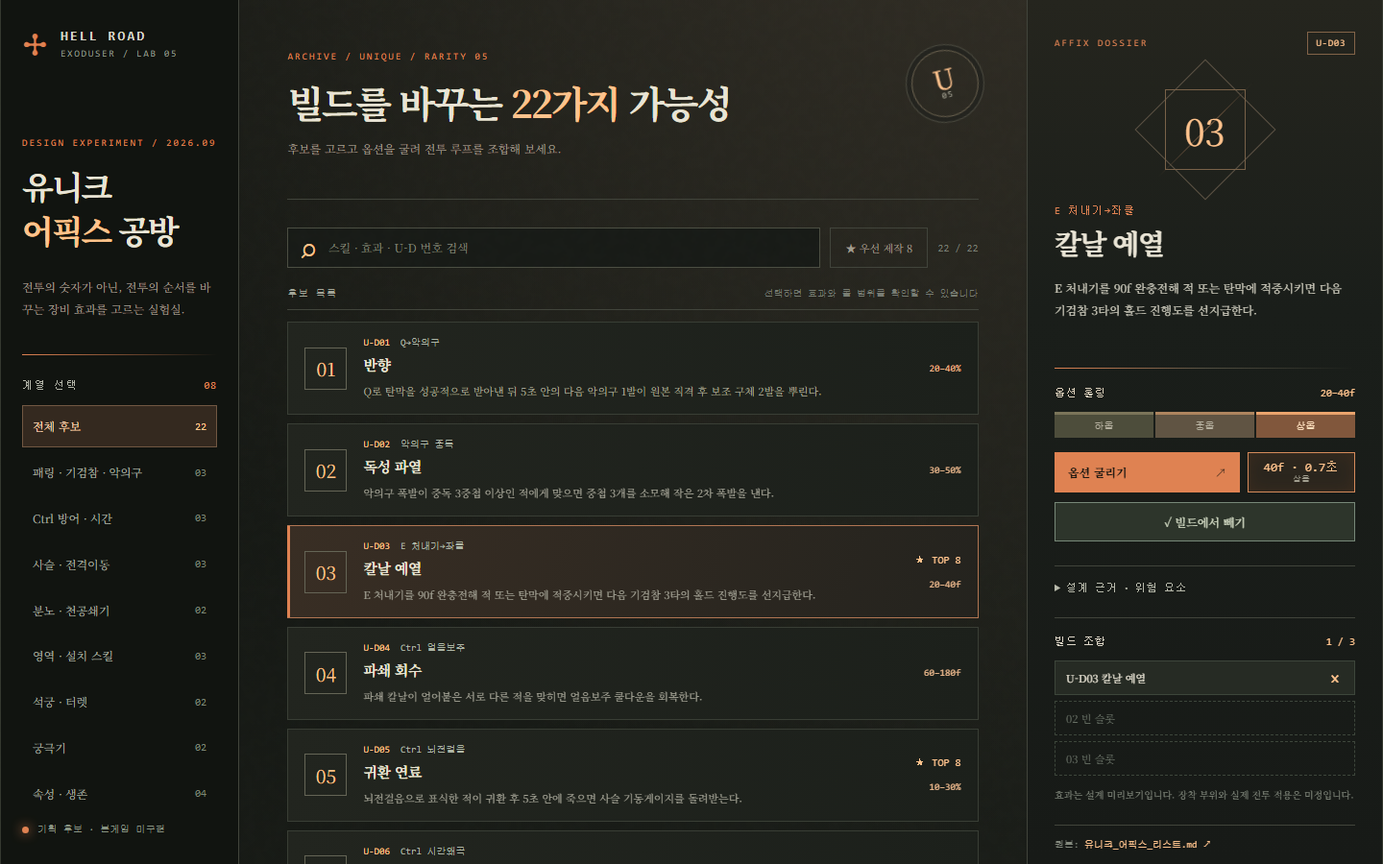
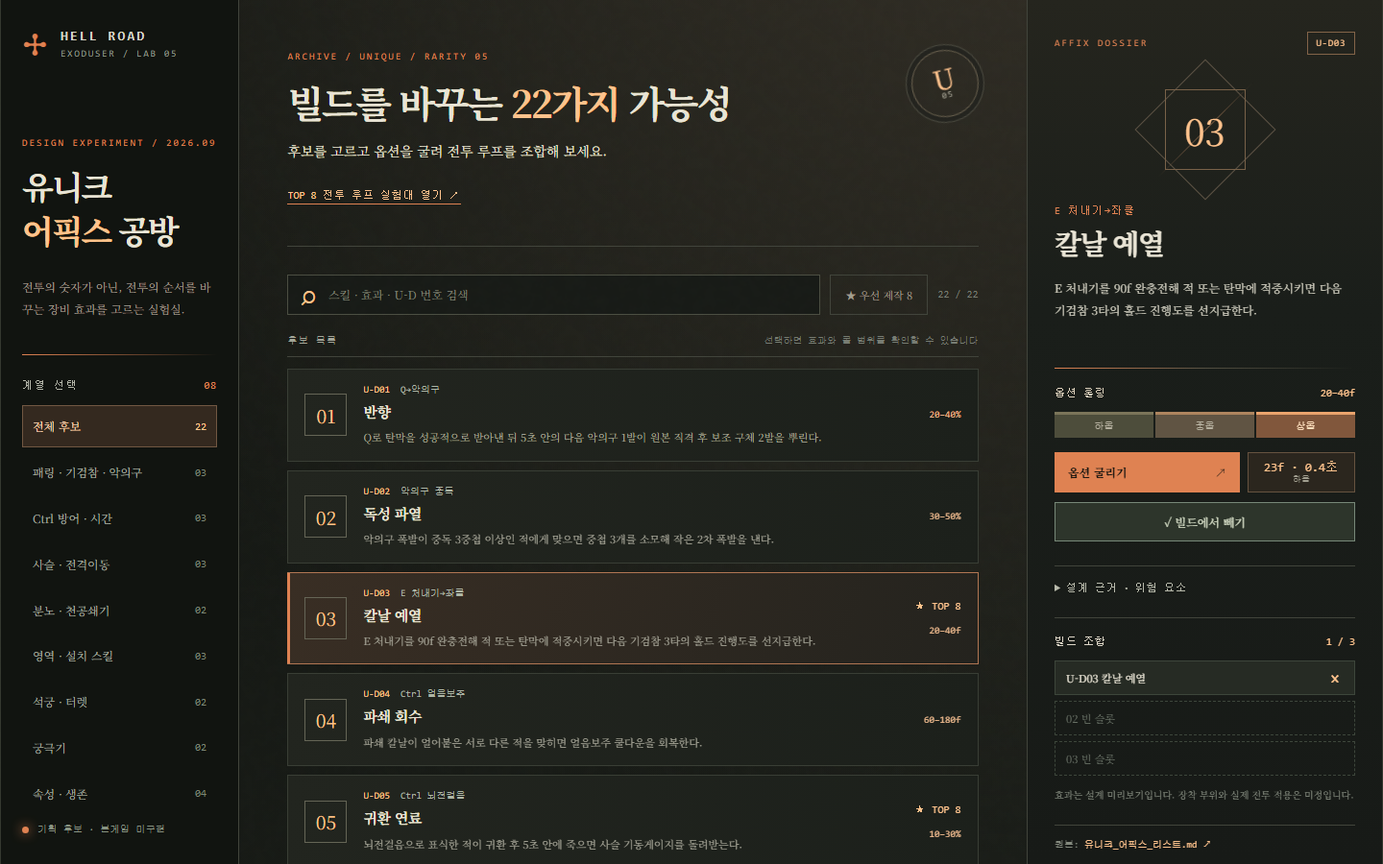
feat:affix-loop-sandbox

diff --git a/affix-mini-project/sandbox.css b/affix-mini-project/sandbox.css
@@ -1,0 +1,11 @@
+.sim-shell{display:grid;grid-template-columns:270px minmax(0,1fr);max-width:1700px;min-height:100vh;margin:auto;border-inline:1px solid #34382f}
+.sim-rail{padding:31px 22px;min-width:0;background:#111410;border-right:1px solid var(--line);position:sticky;top:0;height:100vh;display:flex;flex-direction:column;overflow:auto}
+.sim-back{display:inline-block;color:var(--ember2);text-decoration:none;font:11px var(--mono);padding-bottom:27px;border-bottom:1px solid var(--line)}.sim-back:hover{text-decoration:underline}.sim-rail>.eyebrow{margin-top:40px}.sim-rail h1{font-size:35px;line-height:1.4;letter-spacing:-.06em;margin:0 0 14px}.sim-rail h1 em{font-style:normal;color:var(--ember2)}.sim-intro{color:var(--muted);font-size:12px;line-height:1.9;margin:0 0 34px}.sim-nav-title{display:flex;justify-content:space-between;padding:13px 0;border-top:1px solid var(--line);font:11px var(--mono);color:#b6b8a9}.sim-nav-title span:last-child{color:var(--ember2)}.scenario-list{display:grid;gap:7px}.scenario-button{width:100%;display:grid;grid-template-columns:35px 1fr;align-items:center;gap:9px;text-align:left;background:#1c211b;border:1px solid #343d32;color:var(--text);padding:9px;min-height:57px}.scenario-button:hover{border-color:#9c7656}.scenario-button[aria-current="true"]{border-color:var(--ember);background:#3a2c22}.scenario-number{font:15px var(--font);color:var(--ember2);border-right:1px solid #786353}.scenario-copy{font-size:11px;line-height:1.35}.scenario-copy small{display:block;font:9px var(--mono);color:#9ea594;margin-top:3px}.sim-rail-note{margin-top:auto;padding-top:20px;color:#788273;font:10px var(--mono)}
+.sim-main{padding:42px clamp(24px,4vw,64px) 70px;min-width:0}.sim-head{display:flex;justify-content:space-between;align-items:flex-start;gap:22px;border-bottom:1px solid var(--line);padding-bottom:28px}.sim-head h2{font-size:clamp(29px,3vw,43px);line-height:1.25;letter-spacing:-.06em;margin:0 0 10px}.sim-head p:last-child{color:var(--muted);font-size:12px;margin:0}.sim-id{flex:none;border:1px solid #9a6f51;color:var(--ember2);padding:9px 13px;font:12px var(--mono)}.sim-disclaimer{display:flex;align-items:center;gap:10px;color:#a6a898;font-size:11px;background:#282a22;border-left:2px solid var(--ember);padding:10px 13px;margin:21px 0 25px}.sim-disclaimer .status-dot{flex:none}
+.sim-layout{display:grid;grid-template-columns:minmax(360px,1fr) 345px;gap:18px}.sim-arena{min-width:0;border:1px solid #535345;background:radial-gradient(circle at 50% 31%,#453528 0,#292a22 32%,#1b201a 67%);padding:24px 28px 26px;position:relative;overflow:hidden}.sim-arena:before{content:"";pointer-events:none;position:absolute;inset:0;background:linear-gradient(90deg,transparent 49.9%,#71604926 50%,transparent 50.1%),linear-gradient(0deg,transparent 49.9%,#71604926 50%,transparent 50.1%);background-size:52px 52px;opacity:.28}.arena-top{position:relative;z-index:1;display:flex;justify-content:space-between;color:#a8ad9e;font:11px var(--mono);letter-spacing:.12em}.arena-top strong{font-weight:400;color:var(--ember2)}.arena-top span:last-child{color:var(--ember2)}.arena-sigil{height:260px;position:relative;display:grid;place-items:center}.sigil-ring{position:absolute;border:1px solid #957051;border-radius:50%;box-shadow:0 0 34px #df825222,inset 0 0 30px #df825211}.sigil-ring.outer{width:200px;height:200px;border-style:dashed;animation:turn 34s linear infinite}.sigil-ring.inner{width:155px;height:155px;border-color:#9c694b;animation:turn 20s linear infinite reverse}.arena-sigil span{position:relative;z-index:1;color:#ffcfaa;font:64px var(--font);text-shadow:0 0 24px #df825255}.arena-sigil i{position:absolute;width:232px;height:1px;background:linear-gradient(90deg,transparent,#d08350,transparent);transform:rotate(-40deg)}@keyframes turn{to{transform:rotate(360deg)}}.arena-caption{text-align:center;color:#a3a596;font-size:11px;margin:0 0 22px;position:relative}.step-list{counter-reset:step;display:grid;gap:9px;list-style:none;padding:0;margin:0;position:relative}.step-list li{display:flex;align-items:center;gap:12px;border:1px solid #4c5145;background:#1a1e19eb;min-height:50px;padding:9px 11px;color:#aab0a3;font-size:12px}.step-list li:before{counter-increment:step;content:counter(step,decimal-leading-zero);font:11px var(--mono);color:#828b79}.step-list li.done{border-color:#9c724e;color:#e8d7c4;background:#382c22}.step-list li.done:before{color:var(--ember2)}.step-list li.next{border-color:#d8915d;color:#ffdfbd;box-shadow:0 0 0 1px #6f4b31}
+.sim-control{min-width:0;border:1px solid var(--line);background:#1d211c;padding:26px}.sim-control .eyebrow{margin-bottom:5px}.sim-control h3{font-size:27px;letter-spacing:-.055em;margin:0 0 12px}.sim-effect{color:#c8cabc;font-size:12px;line-height:1.85;min-height:76px;margin:0}.sim-rule{height:1px;background:linear-gradient(90deg,var(--ember),transparent);margin:22px 0}.roll-card{display:grid;grid-template-columns:1fr auto;gap:3px 12px;border:1px solid #655446;background:#2d2922;padding:13px}.roll-card>span{font:10px var(--mono);color:#c3bba8}.roll-card strong{grid-row:span 2;align-self:center;color:var(--ember2);font:20px var(--mono)}.roll-card button{justify-self:start;border:0;background:transparent;padding:0;color:#e5ae84;font:11px var(--mono)}.roll-card button:hover{text-decoration:underline}.action-heading{display:flex;justify-content:space-between;margin:27px 0 10px;color:#c1c5b4;font:11px var(--mono)}.action-heading span:last-child{color:var(--ember2)}.advance-button{width:100%;display:flex;justify-content:space-between;align-items:center;padding:14px 16px;background:var(--ember);border:0;color:#1b1a15;font-size:12px;font-weight:700;text-align:left}.advance-button:hover{background:#ffb181}.advance-button:disabled{background:#554839;color:#aaa99a;cursor:default}.reset-button{width:100%;margin-top:8px;background:transparent;color:#aeb7a7;border:1px solid #5c6456;padding:10px;font-size:11px}.reset-button:hover{color:#fff;border-color:#a3b2a1}.result-card{border-top:1px solid var(--line);margin-top:24px;padding-top:17px}.result-card>span{font:10px var(--mono);color:var(--ember2);letter-spacing:.12em}.result-card p{font-size:12px;color:#d2d4c5;line-height:1.8;margin:8px 0 0;min-height:60px}.sim-source{margin-top:20px;font:10px var(--mono)}.sim-source a{text-decoration:none}.sim-source a:hover{text-decoration:underline}
+.metric-section,.log-section{margin-top:32px}.section-head{display:flex;justify-content:space-between;gap:12px;padding-bottom:11px;border-bottom:1px solid var(--line);font:11px var(--mono);color:#e4ddce}.section-head span:last-child{color:#858d7e}.metric-list{display:grid;grid-template-columns:repeat(3,minmax(0,1fr));gap:10px;margin-top:13px}.metric-card{border:1px solid #444b3f;background:#20251f;padding:15px 17px;min-height:95px}.metric-card span{display:block;color:#a7b09f;font:11px var(--mono);margin-bottom:9px}.metric-card strong{color:#f3c59e;font:27px var(--font)}.metric-card small{font:10px var(--mono);color:#9c9e90;margin-left:5px}.event-log{padding:0;margin:13px 0 0;list-style:none;display:grid;gap:7px}.event-log li{display:grid;grid-template-columns:105px 1fr;gap:14px;background:#1e231d;border-left:2px solid var(--ember);padding:10px 13px;font-size:11px;color:#c3c8b7}.event-log li strong{color:var(--ember2);font:10px var(--mono)}.event-log li.empty{border-left-color:#5b6154;color:#838a7c}
+@media(max-width:1100px){.sim-shell{grid-template-columns:220px minmax(0,1fr)}.sim-layout{grid-template-columns:1fr}.sim-rail{padding-inline:16px}.sim-main{padding-inline:25px}.sim-effect{min-height:0}}
+@media(max-width:750px){.sim-shell{display:block}.sim-rail{position:static;height:auto;overflow:visible;padding:19px 22px}.sim-back{padding-bottom:12px}.sim-rail>.eyebrow{margin-top:16px}.sim-rail h1{font-size:27px;margin-bottom:5px}.sim-rail h1 br{display:none}.sim-intro,.sim-rail-note{display:none}.sim-nav-title{margin-top:14px}.scenario-list{display:flex;overflow:auto;padding-bottom:4px}.scenario-button{flex:none;width:155px}.sim-main{padding:25px 20px 50px}.sim-head h2{font-size:28px}.sim-head p:last-child{line-height:1.6}.sim-disclaimer{align-items:flex-start}.sim-layout{grid-template-columns:minmax(0,1fr)}.sim-arena{padding:18px}.arena-sigil{height:205px}.sigil-ring.outer{width:158px;height:158px}.sigil-ring.inner{width:120px;height:120px}.arena-sigil span{font-size:49px}.metric-list{grid-template-columns:repeat(3,minmax(0,1fr))}.metric-card{padding:10px}.metric-card span{font-size:9px}.metric-card strong{font-size:20px}.event-log li{grid-template-columns:1fr;gap:4px}}
+@media(max-width:430px){.sim-id{padding:5px 7px;font-size:10px}.sim-head h2{font-size:24px}.metric-list{gap:5px}.metric-card strong{font-size:17px}.metric-card small{font-size:8px}.sim-control{padding:20px}}
+@media(prefers-reduced-motion:reduce){.sigil-ring.outer,.sigil-ring.inner{animation:none}}

diff --git a/affix-mini-project/styles.css b/affix-mini-project/styles.css
@@ -16,7 +16,7 @@ button,input{font:inherit}button{cursor:pointer}button:focus-visible,input:focus
 .column-head{display:flex;justify-content:space-between;gap:12px;font:10px var(--mono);letter-spacing:.13em;text-transform:uppercase;color:#a4a699;padding-bottom:10px;border-bottom:1px solid var(--line)}.column-head span:last-child{letter-spacing:0;text-transform:none;color:#777c72}.candidate-list{display:grid;gap:9px;padding-top:12px}.candidate-card{position:relative;display:grid;grid-template-columns:48px 1fr auto;gap:13px;align-items:center;width:100%;border:1px solid #393e35;background:linear-gradient(100deg,#22251f,#1c201b);color:var(--text);text-align:left;padding:15px 17px;min-height:94px;transition:transform .18s,border-color .18s,background .18s}.candidate-card:before{content:"";position:absolute;left:-1px;top:0;bottom:0;width:3px;background:transparent}.candidate-card:hover{transform:translateX(4px);border-color:#8e7057}.candidate-card[aria-current="true"]{background:linear-gradient(110deg,#392e24,#24231e);border-color:#b17653}.candidate-card[aria-current="true"]:before{background:var(--ember)}.card-index{width:44px;height:44px;border:1px solid #656556;display:grid;place-items:center;color:var(--ember2);font:19px var(--font)}.card-copy{min-width:0}.card-meta{display:flex;gap:11px;align-items:center;margin-bottom:5px;color:#aeb6a6;font:10px var(--mono)}.card-meta strong{color:var(--ember2);font-weight:400}.card-title{font-weight:700;font-size:15px;letter-spacing:-.03em}.card-summary{margin-top:5px;color:#aaa99b;font-size:11px;line-height:1.65;display:-webkit-box;-webkit-line-clamp:2;-webkit-box-orient:vertical;overflow:hidden}.card-end{display:flex;flex-direction:column;align-items:end;gap:13px;color:#8f9687;font:10px var(--mono);white-space:nowrap}.card-end b{font-weight:400;color:#edb98d}.priority{font-size:11px;color:var(--ember2)}.empty-state{border:1px dashed var(--line);padding:36px;color:var(--muted);text-align:center;font-size:12px}
 .inspector{position:sticky;top:0;height:100vh;overflow:auto;border-left:1px solid var(--line);background:linear-gradient(180deg,#25251e,#1a1e1a 36%,#171a17);padding:33px 28px 34px;scrollbar-color:#5b5f52 transparent}.inspector-top{display:flex;justify-content:space-between;align-items:center}.inspector-top .eyebrow{margin:0}.id-stamp{border:1px solid #836449;padding:5px 9px;color:var(--ember2);font:10px var(--mono);letter-spacing:.06em}.emblem{height:156px;display:grid;place-items:center;position:relative}.emblem:before,.emblem:after{content:"";position:absolute;border:1px solid #5d5345;width:102px;height:102px;transform:rotate(45deg)}.emblem:after{transform:rotate(0deg);width:82px;height:82px;border-color:#796249}.emblem span{font:38px var(--font);color:var(--ember2);z-index:1}.emblem i{position:absolute;width:140px;height:1px;background:linear-gradient(90deg,transparent,#7e6046,transparent);transform:rotate(-45deg)}.detail-family{color:var(--ember);font:11px var(--mono);letter-spacing:.07em;margin:0 0 3px}.detail-name{margin:0 0 12px;font-size:29px;letter-spacing:-.055em}.detail-effect{color:#d3d1c2;font-size:12px;line-height:1.9;min-height:70px;margin:0}.detail-rule{height:1px;background:linear-gradient(90deg,var(--ember),#555143,transparent);margin:24px 0 19px}.roll-head{display:flex;justify-content:space-between;gap:8px;font:11px var(--mono);color:#e0d4bf}.roll-head span:last-child{color:var(--ember2)}.roll-track{display:grid;grid-template-columns:repeat(3,1fr);gap:2px;margin:13px 0 15px}.roll-track span{text-align:center;background:#4d4d3b;border-top:3px solid #7b755a;color:#b7b2a1;padding:6px 0;font:10px var(--mono)}.roll-track span:nth-child(2){background:#605443;border-color:#ae855f}.roll-track span:nth-child(3){background:#81573c;border-color:#eaa46d;color:#ffe1bf}.roll-actions{display:flex;gap:8px}.primary-button{background:var(--ember);color:#171510;border:0;padding:11px 14px;font-size:12px;font-weight:700;flex:1;display:flex;justify-content:space-between;align-items:center;transition:background .18s}.primary-button:hover{background:#ffac77}.roll-result{min-width:85px;display:flex;flex-direction:column;justify-content:center;align-items:center;border:1px solid #665340;background:#2b261e}.roll-result strong{font:16px var(--mono);color:var(--ember2)}.roll-result small{font:9px var(--mono);color:var(--muted)}.roll-result[data-tier="상옵"]{border-color:#d58b5b;box-shadow:inset 0 0 18px #7e442333}.build-button{margin-top:10px;width:100%;border:1px solid #a36d4a;background:transparent;color:var(--ember2);padding:10px;font-size:12px}.build-button:hover{background:#3b2b20}.build-button[aria-pressed="true"]{border-color:#778878;color:#d9e1ca;background:#2d352b}.build-button:disabled{opacity:.45;cursor:not-allowed}
 .detail-notes{border-top:1px solid var(--line);margin-top:25px;padding-top:16px}.detail-notes summary{cursor:pointer;color:#b9bbac;font:11px var(--mono)}.detail-notes h3{font:10px var(--mono);letter-spacing:.12em;color:var(--ember);margin:20px 0 5px}.detail-notes p{font-size:11px;color:#b4b5a6;line-height:1.8;margin:0}.build-panel{border-top:1px solid var(--line);margin-top:24px;padding-top:18px}.build-heading{display:flex;justify-content:space-between;font:11px var(--mono);color:#ddd6c7}.build-heading strong{color:var(--ember2);font-weight:400}.build-list{list-style:none;padding:0;margin:13px 0 11px;display:grid;gap:6px}.build-list li{height:36px;display:flex;justify-content:space-between;align-items:center;padding:0 11px;background:#262b24;border:1px solid #3d463b;font-size:11px}.build-list li.empty{background:transparent;border-style:dashed;color:#717a6e}.build-list button{border:0;background:transparent;color:var(--ember2);font:18px var(--mono);padding:0 4px}.build-panel>p{color:#8b9285;font-size:10px;line-height:1.7;margin:0}.source-line{border-top:1px solid var(--line);margin-top:23px;padding-top:14px;color:#848a7e;font:10px var(--mono)}.source-line a{text-decoration:none}.source-line a:hover{text-decoration:underline}.load-error{position:fixed;inset:auto 20px 20px;z-index:10;background:#3d2921;border:1px solid var(--ember);padding:14px 18px;color:#f6dbca;box-shadow:0 18px 60px #0009;display:flex;flex-wrap:wrap;align-items:center;gap:14px;font-size:12px}.load-error[hidden],.empty-state[hidden]{display:none}.file-label{cursor:pointer;border:1px solid #f4b17b;padding:5px 10px}.file-label input{position:absolute;width:1px;height:1px;opacity:0}.sr-only{position:absolute;width:1px;height:1px;padding:0;margin:-1px;overflow:hidden;clip:rect(0,0,0,0);white-space:nowrap;border:0}
-.roll-result{min-width:112px}.roll-result strong{font-size:13px;white-space:nowrap}
+.roll-result{min-width:112px}.roll-result strong{font-size:13px;white-space:nowrap}.sim-launch{display:inline-block;margin-top:14px;border-bottom:1px solid var(--ember);padding-bottom:2px;color:var(--ember2);text-decoration:none;font:11px var(--mono)}.sim-launch:hover{color:#ffe0c3;border-bottom-color:#ffe0c3}
 @media(max-width:1170px){.shell{grid-template-columns:210px minmax(340px,1fr) 320px}.rail{padding-inline:17px}.workspace{padding-inline:25px}.inspector{padding-inline:20px}.column-head span:last-child{display:none}}
 @media(max-width:900px){.shell{display:block}.rail{position:static;height:auto;min-height:0;padding:18px 22px}.brand{font-size:12px}.rail-intro{margin-top:23px}.rail-intro h1{font-size:26px;margin-bottom:7px}.rail-intro h1 br{display:none}.rail-intro>p:last-child{display:none}.rail-divider{margin:15px 0}.group-list{display:flex;overflow:auto;padding-bottom:5px}.group-button{flex:none;width:auto}.nav-label,.rail-bottom{display:none}.workspace{padding:30px 22px}.inspector{position:static;height:auto;border-left:0;border-top:1px solid var(--line);padding:28px 22px}.emblem{height:95px}.emblem:before{width:70px;height:70px}.emblem:after{width:56px;height:56px}.emblem span{font-size:28px}.detail-effect{min-height:0}}
 @media(max-width:540px){.workspace-head{padding-bottom:24px}.workspace-head h2{font-size:27px}.head-seal{width:49px;height:49px}.head-seal span{font-size:20px}.toolbar{flex-wrap:wrap}.search{flex-basis:100%}.filter-button{flex:1}.candidate-card{grid-template-columns:38px 1fr;min-height:100px;padding:12px}.card-index{width:36px;height:36px;font-size:15px}.card-end{grid-column:2;flex-direction:row;align-items:center;gap:12px}.card-meta{flex-wrap:wrap}.rail-intro h1{font-size:23px}}

diff --git a/affix-mini-project/scenario.js b/affix-mini-project/scenario.js
@@ -1,0 +1,104 @@
+const round = (value) => Math.round(value * 10) / 10;
+
+export const SCENARIOS = {
+  'U-D03': {
+    title: '처내기 → 기검참 3타',
+    premise: 'E 처내기를 90f 완충전해 실제로 적중시키는 경우',
+    metrics: [['shieldCharge', '처내기 충전', 'f'], ['kiCharge', '선지급 홀드', 'f'], ['remainingCharge', '남은 홀드', 'f']],
+    initial: { shieldCharge: 0, kiCharge: 0, remainingCharge: 120 },
+    steps: [
+      { label: 'E 처내기 완충전', apply: (m) => { m.shieldCharge = 90; return '완충전 90f를 채웠습니다.'; } },
+      { label: '적 또는 탄막에 적중', apply: (_, roll) => `다음 기검참 3타에 ${roll}f 선지급 토큰을 예약합니다.` },
+      { label: '좌클 기검참 3타 진입', apply: (m, roll) => { m.kiCharge = roll; m.remainingCharge = 120 - roll; return `120f 홀드 중 ${roll}f를 선지급해 ${m.remainingCharge}f가 남습니다.`; } },
+    ],
+  },
+  'U-D05': {
+    title: '뇌전걸음 표식 → 사슬 추격',
+    premise: '기동게이지 1칸(45)에서 시작해 표식 적 1명을 5초 안에 처치하는 경우',
+    metrics: [['mobility', '기동게이지', ''], ['marked', '살아 있는 표식', '명'], ['refund', '표식 처치 회수', '']],
+    initial: { mobility: 45, marked: 0, refund: 0 },
+    steps: [
+      { label: 'Ctrl 뇌전걸음 표식', apply: (m) => { m.marked = 1; return '귀환 뒤 유효한 표식 1개가 남았습니다.'; } },
+      { label: '5초 안에 표식 적 처치', apply: (m, roll) => { m.refund = round(Math.min(27, 45 * roll / 100)); m.mobility = round(m.mobility + m.refund); m.marked = 0; return `1칸 45의 ${roll}% = ${m.refund}을 회수합니다.`; } },
+      { label: 'Shift 전격이동', apply: (m) => { m.mobility = round(m.mobility - 31.5); return `전격이동 비용 31.5를 쓰고 ${m.mobility}가 남습니다.`; } },
+    ],
+  },
+  'U-D09': {
+    title: '전격이동 두 번 → 쌍극 전류',
+    premise: '기동게이지 150과 전류장판 틱 피해 100을 기준으로 한 비율 예시',
+    metrics: [['mobility', '기동게이지', ''], ['fields', '전류장판', '개'], ['lineDamage', '전류선 1틱', '피해']],
+    initial: { mobility: 150, fields: 0, lineDamage: 0 },
+    steps: [
+      { label: '첫 전격이동', apply: (m) => { m.mobility -= 31.5; m.fields = 1; return '전류장판 1개를 남겼습니다.'; } },
+      { label: '두 번째 전격이동', apply: (m) => { m.mobility -= 31.5; m.fields = 2; return '살아 있는 전류장판 두 개 사이에 전류선 1개를 잇습니다.'; } },
+      { label: '전류선 적중 1회', apply: (m, roll) => { m.lineDamage = roll; return `장판 틱 100의 ${roll}% = ${roll} 피해. 방어 감소는 추가하지 않습니다.`; } },
+    ],
+  },
+  'U-D10': {
+    title: '지옥강타 → 잔불 분노',
+    premise: '분노 100을 지옥강타에 모두 소모하는 경우',
+    metrics: [['rage', '현재 분노', ''], ['spentRage', '강타 소모', ''], ['returnedRage', '잔불 회수', '']],
+    initial: { rage: 100, spentRage: 0, returnedRage: 0 },
+    steps: [
+      { label: 'Space 지옥강타 발동', apply: (m) => { m.spentRage = m.rage; m.rage = 0; return '폭발 계수는 소모 전 분노 100으로 계산합니다.'; } },
+      { label: '잔불 분노 복원', apply: (m, roll) => { m.returnedRage = Math.min(30, m.spentRage * roll / 100); m.rage = m.returnedRage; return `소모량의 ${roll}%를 돌려받습니다. 최대 30, 충만 래치는 재발동하지 않습니다.`; } },
+    ],
+  },
+  'U-D12': {
+    title: '회복의 영역 → Q 패링',
+    premise: '기본 영역 쿨 1800f에서 시작, 영역 안 Q 패링 성공 3회',
+    metrics: [['domeCooldown', '영역 남은 쿨', 'f'], ['parries', '영역 안 패링', '회'], ['refund', '총 쿨 회복', 'f']],
+    initial: { domeCooldown: 0, parries: 0, refund: 0 },
+    steps: [
+      { label: 'F 회복의 영역 설치', apply: (m) => { m.domeCooldown = 1800; return '영역을 설치하고 기본 쿨 1800f를 시작합니다.'; } },
+      { label: '영역 안 Q 패링 성공', apply: (m, roll) => { m.parries = 1; m.refund = roll; m.domeCooldown -= roll; return `${roll}f 회복. 설치한 영역 안의 성공 패링만 인정합니다.`; } },
+      { label: 'Q 패링 2회 더 성공', apply: (m, roll) => { m.parries = 3; m.refund = Math.min(300, roll * 3); m.domeCooldown = 1800 - m.refund; return `영역당 최대 300f 회복 상한을 적용해 총 ${m.refund}f 회복합니다.`; } },
+    ],
+  },
+  'U-D13': {
+    title: '가시덫 처치 → 번지는 뿌리',
+    premise: '원본 가시덫 틱 피해 100을 기준으로 한 비율 예시',
+    metrics: [['traps', '원본 덫', '개'], ['children', '자식 덫', '개'], ['childTick', '자식 틱', '피해']],
+    initial: { traps: 0, children: 0, childTick: 0 },
+    steps: [
+      { label: '1~4 가시덫 설치', apply: (m) => { m.traps = 1; return '원본 덫 1개를 설치합니다.'; } },
+      { label: '원본 덫 DOT로 처치', apply: (m) => { m.children = 1; return '사망 위치에 180f 지속 자식 덫 1개를 만듭니다.'; } },
+      { label: '자식 덫 틱 1회', apply: (m, roll) => { m.childTick = roll; return `원본 틱 100의 ${roll}% = ${roll} 피해. 자식 처치는 덫을 더 만들지 않습니다.`; } },
+    ],
+  },
+  'U-D14': {
+    title: '폭풍소환 안 악의구 폭발',
+    premise: '악의구 원래 폭발 피해 100을 기준으로 한 비율 예시',
+    metrics: [['vortex', '소용돌이', '개'], ['orbExplosion', '원래 폭발', '피해'], ['pulseDamage', '추가 충격파', '피해']],
+    initial: { vortex: 0, orbExplosion: 100, pulseDamage: 0 },
+    steps: [
+      { label: '1~4 폭풍소환 배치', apply: (m) => { m.vortex = 1; return '소용돌이 1개가 390f 동안 유지됩니다.'; } },
+      { label: '영역 안 악의구 폭발', apply: (m, roll) => { m.pulseDamage = m.orbExplosion * roll / 100; return `원 폭발 100의 ${roll}% = ${m.pulseDamage} 추가 충격파. 소용돌이별 120f 간격입니다.`; } },
+    ],
+  },
+  'U-D17': {
+    title: '블랙 → 공격 장판 수렴',
+    premise: '이동 가능한 공격 장판 3개와 제외 대상 전류장판 1개가 있는 경우',
+    metrics: [['manaCost', '최대 MP 소모', '%'], ['movedZones', '중심으로 이동', '개'], ['shockZones', '제외된 전류장판', '개']],
+    initial: { manaCost: 0, movedZones: 0, shockZones: 1 },
+    steps: [
+      { label: 'Z 블랙 발동', apply: (m) => { m.manaCost = 30; return '최대 MP의 30%를 쓰며 블랙 자체 피해는 0입니다.'; } },
+      { label: '흡인 종료 · 장판 수렴', apply: (m, roll) => { m.movedZones = Math.min(3, roll); return `공격 장판 ${m.movedZones}개를 중심으로 옮깁니다. 전류장판 1개는 제외합니다.`; } },
+    ],
+  },
+};
+
+export function createRun(candidate, roll) {
+  if (!candidate || !SCENARIOS[candidate.id]) throw new Error('우선 제작 TOP 8 후보만 실험할 수 있습니다.');
+  if (!Number.isInteger(roll) || roll < candidate.min || roll > candidate.max) throw new Error('옵션 롤이 후보 범위를 벗어났습니다.');
+  return { id: candidate.id, roll, index: 0, metrics: { ...SCENARIOS[candidate.id].initial }, events: [] };
+}
+
+export function advanceRun(run) {
+  const scenario = SCENARIOS[run.id];
+  const step = scenario.steps[run.index];
+  if (!step) return run;
+  const metrics = { ...run.metrics };
+  const detail = step.apply(metrics, run.roll);
+  return { ...run, index: run.index + 1, metrics, events: [...run.events, { label: step.label, detail }] };
+}

diff --git a/affix-mini-project/sandbox.js b/affix-mini-project/sandbox.js
@@ -1,0 +1,116 @@
+import { parseCandidates, rollCandidate } from './model.js';
+import { SCENARIOS, createRun, advanceRun } from './scenario.js';
+
+const SOURCE = '../docs/7아이템디자인/유니크_어픽스_리스트.md';
+const ORDER = ['U-D03', 'U-D10', 'U-D12', 'U-D05', 'U-D14', 'U-D13', 'U-D09', 'U-D17'];
+const state = { candidates: new Map(), candidate: null, roll: null, run: null };
+const byId = (id) => document.getElementById(id);
+const plain = (value) => value.replace(/\*\*|`/g, '');
+function text(id, value) {
+  const target = byId(id);
+  if (target.children.length) throw new Error(`리프 노드가 아닙니다: ${id}`);
+  target.textContent = value;
+}
+function node(tag, className, value) {
+  const element = document.createElement(tag);
+  if (className) element.className = className;
+  if (value != null) element.textContent = value;
+  return element;
+}
+function format(value) { return new Intl.NumberFormat('ko-KR', { maximumFractionDigits: 1 }).format(value); }
+
+function choose(id) {
+  const candidate = state.candidates.get(id);
+  if (!candidate || !SCENARIOS[id]) return;
+  state.candidate = candidate;
+  state.roll = rollCandidate(candidate);
+  state.run = createRun(candidate, state.roll.value);
+  history.replaceState(null, '', `?affix=${id}`);
+  render();
+}
+
+function renderNavigation() {
+  const buttons = ORDER.map((id, index) => {
+    const candidate = state.candidates.get(id);
+    const button = node('button', 'scenario-button');
+    button.type = 'button';
+    button.setAttribute('aria-current', String(id === state.candidate.id));
+    const copy = node('span', 'scenario-copy', candidate.name);
+    copy.append(node('small', '', id));
+    button.append(node('span', 'scenario-number', String(index + 1).padStart(2, '0')), copy);
+    button.addEventListener('click', () => choose(id));
+    return button;
+  });
+  byId('scenario-list').replaceChildren(...buttons);
+}
+
+function renderSteps() {
+  const { index, id } = state.run;
+  const steps = SCENARIOS[id].steps;
+  const list = steps.map((step, position) => {
+    const item = node('li', position < index ? 'done' : position === index ? 'next' : '', step.label);
+    if (position < index) item.setAttribute('aria-label', `${step.label} 완료`);
+    return item;
+  });
+  byId('step-list').replaceChildren(...list);
+  text('step-count', `${String(index).padStart(2, '0')} / ${String(steps.length).padStart(2, '0')}`);
+  text('action-index', index < steps.length ? `${String(index + 1).padStart(2, '0')} / ${String(steps.length).padStart(2, '0')}` : '완료');
+  const button = byId('advance-button');
+  button.disabled = index >= steps.length;
+  const label = button.querySelector('span');
+  button.firstChild.textContent = index >= steps.length ? '시퀀스 완료 ' : `${steps[index].label} 실행 `;
+  label.textContent = index >= steps.length ? '✓' : '→';
+}
+
+function renderMetrics() {
+  const cards = SCENARIOS[state.run.id].metrics.map(([key, label, unit]) => {
+    const card = node('div', 'metric-card');
+    card.append(node('span', '', label), node('strong', '', format(state.run.metrics[key])), node('small', '', unit));
+    return card;
+  });
+  byId('metric-list').replaceChildren(...cards);
+}
+
+function renderLog() {
+  const events = state.run.events.length ? state.run.events.map((event, index) => {
+    const row = node('li', '');
+    row.append(node('strong', '', `${String(index + 1).padStart(2, '0')} / ${event.label}`), node('span', '', event.detail));
+    return row;
+  }) : [node('li', 'empty', '아직 실행한 행동이 없습니다.')];
+  byId('event-log').replaceChildren(...events);
+  text('last-result', state.run.events.at(-1)?.detail || '시작 상태입니다. 첫 행동을 실행해 보세요.');
+}
+
+function render() {
+  const candidate = state.candidate;
+  const scenario = SCENARIOS[candidate.id];
+  renderNavigation();
+  text('scenario-title', scenario.title);
+  text('scenario-premise', scenario.premise);
+  text('scenario-id', candidate.id);
+  text('affix-name', candidate.name);
+  text('affix-effect', plain(candidate.effect));
+  text('roll-value', state.roll.display);
+  text('roll-tier', state.roll.tier);
+  text('sigil-number', candidate.id.slice(-2));
+  renderSteps();
+  renderMetrics();
+  renderLog();
+}
+
+byId('advance-button').addEventListener('click', () => { state.run = advanceRun(state.run); render(); });
+byId('reset-button').addEventListener('click', () => { state.run = createRun(state.candidate, state.roll.value); render(); });
+byId('reroll-button').addEventListener('click', () => { state.roll = rollCandidate(state.candidate); state.run = createRun(state.candidate, state.roll.value); render(); });
+
+try {
+  const response = await fetch(SOURCE, { cache: 'no-store' });
+  if (!response.ok) throw new Error(`설계 문서 응답 ${response.status}`);
+  const candidates = parseCandidates(await response.text());
+  if (candidates.length !== 22) throw new Error(`후보 ${candidates.length}개만 찾았습니다.`);
+  state.candidates = new Map(candidates.map((candidate) => [candidate.id, candidate]));
+  const requested = new URLSearchParams(location.search).get('affix');
+  choose(ORDER.includes(requested) ? requested : 'U-D03');
+} catch (error) {
+  byId('sim-error').hidden = false;
+  byId('sim-error').querySelector('span').textContent = error.message;
+}

diff --git a/affix-mini-project/sandbox.html b/affix-mini-project/sandbox.html
@@ -1,0 +1,56 @@
+<!doctype html>
+<html lang="ko">
+<head>
+  <meta charset="utf-8">
+  <meta name="viewport" content="width=device-width, initial-scale=1">
+  <meta name="theme-color" content="#151715">
+  <title>EXODUSER · 전투 루프 실험대</title>
+  <link rel="stylesheet" href="./styles.css">
+  <link rel="stylesheet" href="./sandbox.css">
+  <script type="module" src="./sandbox.js"></script>
+</head>
+<body>
+  <div class="sim-shell">
+    <aside class="sim-rail" aria-label="시나리오 선택">
+      <a class="sim-back" href="./">← 유니크 어픽스 공방</a>
+      <p class="eyebrow">EXODUSER / LAB 05-B</p>
+      <h1>전투 루프<br><em>실험대</em></h1>
+      <p class="sim-intro">스킬을 차례로 눌러 유니크 어픽스가 전투 흐름에 끼어드는 순간을 확인합니다.</p>
+      <div class="sim-nav-title"><span>우선 제작 TOP 8</span><span>08</span></div>
+      <nav id="scenario-list" class="scenario-list" aria-label="전투 루프 시나리오"></nav>
+      <p class="sim-rail-note">독립 수치 시나리오 · 본게임 전투 적용 전</p>
+    </aside>
+
+    <main class="sim-main">
+      <header class="sim-head"><div><p class="eyebrow">INTERACTIVE BUILD STUDY / UNIQUE 05</p><h2 id="scenario-title">전투 루프 실험대</h2><p id="scenario-premise"></p></div><span id="scenario-id" class="sim-id">U-D03</span></header>
+      <div class="sim-disclaimer"><span class="status-dot" aria-hidden="true"></span>이 화면은 문서 조건을 분리한 계산 예시입니다. 실제 게임의 적 AI·스킬 피해·세이브와 연결되지 않습니다.</div>
+
+      <div class="sim-layout">
+        <section class="sim-arena" aria-label="행동 시퀀스">
+          <div class="arena-top"><span>SEQUENCE / <strong id="step-count">00 / 03</strong></span><span id="roll-tier">중옵</span></div>
+          <div class="arena-sigil" aria-hidden="true"><div class="sigil-ring outer"></div><div class="sigil-ring inner"></div><span id="sigil-number">03</span><i></i></div>
+          <p class="arena-caption">행동을 진행하면 오른쪽 결과와 아래 수치가 변합니다</p>
+          <ol id="step-list" class="step-list"></ol>
+        </section>
+
+        <section class="sim-control" aria-label="시뮬레이션 조작과 결과">
+          <p class="eyebrow">CURRENT AFFIX</p>
+          <h3 id="affix-name">칼날 예열</h3>
+          <p id="affix-effect" class="sim-effect"></p>
+          <div class="sim-rule"></div>
+          <div class="roll-card"><span>장착 옵션</span><strong id="roll-value">—</strong><button id="reroll-button" type="button" aria-label="옵션 다시 굴리기">↻ 다시 굴리기</button></div>
+          <div class="action-heading"><span>다음 행동</span><span id="action-index">01 / 03</span></div>
+          <button id="advance-button" class="advance-button" type="button">다음 행동 실행 <span aria-hidden="true">→</span></button>
+          <button id="reset-button" class="reset-button" type="button">시퀀스 처음부터</button>
+          <div class="result-card"><span>최근 결과</span><p id="last-result" role="status" aria-live="polite">시작 상태입니다. 첫 행동을 실행해 보세요.</p></div>
+          <div class="sim-source"><a href="../docs/7아이템디자인/유니크_어픽스_리스트.md" target="_blank" rel="noopener">설계 문서 원본 ↗</a></div>
+        </section>
+      </div>
+
+      <section class="metric-section" aria-label="시나리오 수치"><div class="section-head"><span>상태 계기</span><span>각 단계 직후 갱신</span></div><div id="metric-list" class="metric-list"></div></section>
+      <section class="log-section" aria-label="행동 기록"><div class="section-head"><span>행동 기록</span><span>시퀀스별 1회 발동</span></div><ol id="event-log" class="event-log"></ol></section>
+    </main>
+  </div>
+  <div id="sim-error" class="load-error" hidden><strong>시나리오를 불러오지 못했습니다.</strong><span>3333 서버와 설계 문서 응답을 확인해 주세요.</span></div>
+</body>
+</html>

diff --git a/affix-mini-project/index.html b/affix-mini-project/index.html
@@ -20,7 +20,7 @@
     </aside>
 
     <main class="workspace">
-      <header class="workspace-head"><div><p class="eyebrow">ARCHIVE / UNIQUE / RARITY 05</p><h2>빌드를 바꾸는 <em>22가지</em> 가능성</h2><p>후보를 고르고 옵션을 굴려 전투 루프를 조합해 보세요.</p></div><div class="head-seal" aria-hidden="true"><span>U</span><small>05</small></div></header>
+      <header class="workspace-head"><div><p class="eyebrow">ARCHIVE / UNIQUE / RARITY 05</p><h2>빌드를 바꾸는 <em>22가지</em> 가능성</h2><p>후보를 고르고 옵션을 굴려 전투 루프를 조합해 보세요.</p><a id="sim-launch" class="sim-launch" href="./sandbox.html?affix=U-D03">TOP 8 전투 루프 실험대 열기 ↗</a></div><div class="head-seal" aria-hidden="true"><span>U</span><small>05</small></div></header>
       <section class="toolbar" aria-label="후보 검색 및 정렬"><label class="search"><span aria-hidden="true">⌕</span><span class="sr-only">후보 검색</span><input id="search" type="search" placeholder="스킬 · 효과 · U-D 번호 검색" autocomplete="off"></label><button id="top-filter" class="filter-button" type="button" aria-pressed="false">★ 우선 제작 8</button><span id="visible-count" class="visible-count" aria-live="polite">22 / 22</span></section>
       <div class="column-head"><span>후보 목록</span><span>선택하면 효과와 롤 범위를 확인할 수 있습니다</span></div>
       <div id="candidate-list" class="candidate-list" aria-live="polite"></div>

diff --git a/affix-mini-project/app.js b/affix-mini-project/app.js
@@ -106,6 +106,7 @@ function renderBuild() {
 function renderDetail() {
   const candidate = selectedCandidate();
   if (!candidate) return;
+  byId('sim-launch').href = `./sandbox.html?affix=${TOP_IDS.has(candidate.id) ? candidate.id : 'U-D03'}`;
   setLeaf('detail-id', candidate.id);
   setLeaf('emblem-number', candidate.id.slice(-2));
   setLeaf('detail-family', candidate.family);

diff --git a/docs/7아이템디자인/유니크_어픽스_리스트.md b/docs/7아이템디자인/유니크_어픽스_리스트.md
@@ -185,9 +185,25 @@
 
 | 항목 | 내용 |
 |---|---|
-| 위치 | `affix-mini-project/` — `http://localhost:3333/affix-mini-project/`에서 실행 |
+| 위치 | `affix-mini-project/` — 후보 공방 `http://localhost:3333/affix-mini-project/`, 전투 루프 실험대 `/affix-mini-project/sandbox.html?affix=U-D03` |
 | 데이터 | 이 문서 D절의 `U-D01~22` 표를 실행 시 읽는다. 별도 어픽스 수치 사본을 유지하지 않는다. |
-| 기능 | 8계열·검색·TOP 8 필터, 후보 상세/코드 훅/위험 보기, 하·중·상옵 롤링, 후보 3개 조합 |
+| 기능 | 8계열·검색·TOP 8 필터, 후보 상세/코드 훅/위험 보기, 하·중·상옵 롤링, 후보 3개 조합. TOP 8은 별도 화면에서 2~3단계 행동·상태 계기·계산 결과를 재생 |
+| 실험 가정 | D09·D13·D14의 `100` 피해는 비율 확인용 기준값. 적중·처치·장판 배치는 고정 상황이며 실제 게임 피해/전투 실행이 아님 |
 | 저장 | 미니 프로젝트의 선택 id만 별도 `localStorage` 키에 저장. 본게임 아이템·세이브와 연결하지 않는다. |
-| 구현 상태 | **기획 비교 화면만 구현**. `UNIQUE_SPECIAL` 등록, 스킬 발동 훅, 장착 부위, 실제 피해 계산, 다국어·세이브 마이그레이션은 미구현. |
-| 검증 | `model.test.mjs`의 22개 후보·롤 구간·3개 조합 검사와 Chrome 3333 서버의 검색/필터/롤링/슬롯 수동 확인. 1440px·390px 화면에서 가로 넘침 없음과 상세 전환 확인. |
+| 구현 상태 | **기획 비교 화면과 고정 상황 시퀀스만 구현**. `UNIQUE_SPECIAL` 등록, 스킬 발동 훅, 장착 부위, 실제 게임 피해 계산, 다국어·세이브 마이그레이션은 미구현. |
+| 검증 | `model.test.mjs`·`scenario.test.mjs` 7개 검사와 Chrome 3333 서버의 검색/필터/롤링/슬롯, TOP 8 시나리오 전부 끝까지 진행. 1440px·390px 화면에서 가로 넘침 없음과 상세 전환 확인 |
+
+### E-1. 전투 루프 실험대의 고정 상황
+
+`scenario.js`의 상태·공식이다. 발동 조건을 설명하기 위한 예시이며 D절 채택 수치나 본게임 피해값을 바꾸지 않는다.
+
+| 후보 | 시작 상태·행동 | 마지막 계산 결과 | 실험 상한·제외 |
+|---|---|---|---|
+| U-D03 | E 완충전 `90f`, 적중, 기검참 3타 기본 홀드 `120f` | 선지급=`롤 f`, 남은 홀드=`120−롤 f` | 적중 1회 토큰 |
+| U-D05 | 기동게이지 `45`, Ctrl 표식 적 `1명`을 `5초` 안에 처치, Shift 전격이동 | 표식 회수=`min(27,45×롤÷100)`; 이동 뒤 게이지=`45+회수−31.5` | 처치 1명, 이동 비용 `31.5` |
+| U-D09 | 게이지 `150`, 전격이동 `2회`, 전류장판 틱 기준 피해 `100` | 게이지=`150−31.5×2=87`; 전류선 1틱=`100×롤÷100` | 전류선 1개, 방어 감소 추가 없음 |
+| U-D10 | 분노 `100` 전부 지옥강타에 소모 | 잔여 분노=`min(30,100×롤÷100)` | 충만 래치 재발동 없음 |
+| U-D12 | 영역 기본 쿨 `1800f`, 영역 안 Q 성공 `3회` | 총 회복=`min(300,3×롤 f)`; 남은 쿨=`1800−회복` | 영역당 `300f` 회복 상한 |
+| U-D13 | 원본 덫 틱 기준 피해 `100`, 원본 DOT 처치 | 자식 덫 `1개`, `180f` 지속; 자식 틱=`100×롤÷100` | 자식 처치로 새 덫 생성 없음 |
+| U-D14 | 소용돌이 `1개` 지속 `390f`, 안에서 원 폭발 기준 피해 `100` | 추가 충격파=`100×롤÷100` | 소용돌이별 `120f` 간격 설명 |
+| U-D17 | 이동 가능한 공격 장판 `3개`·전류장판 `1개`, 블랙 소모 최대 MP `30%` | 이동 장판=`min(3,롤)`개 | 전류장판은 이동 대상에서 제외 |
